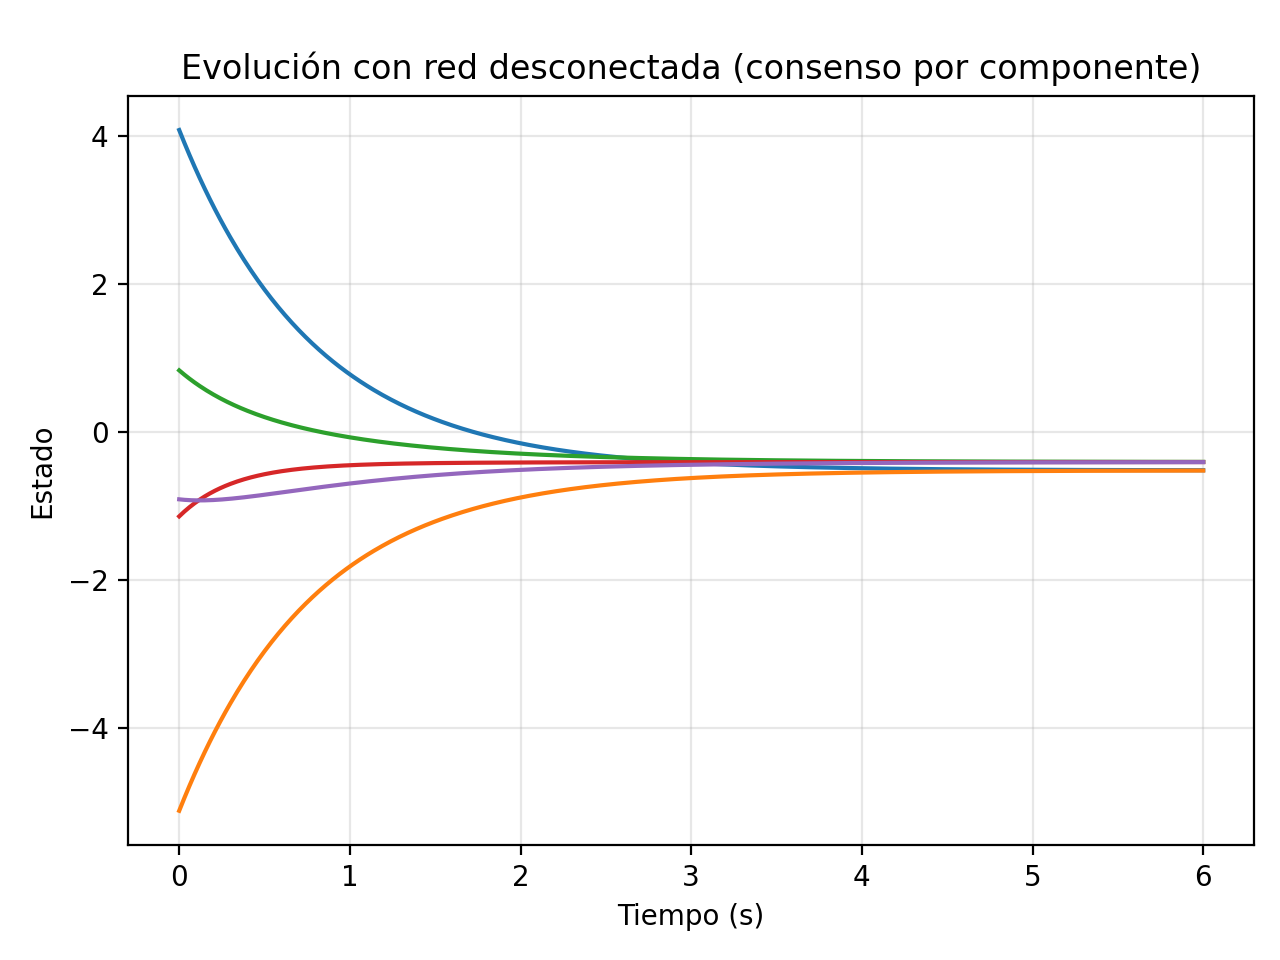
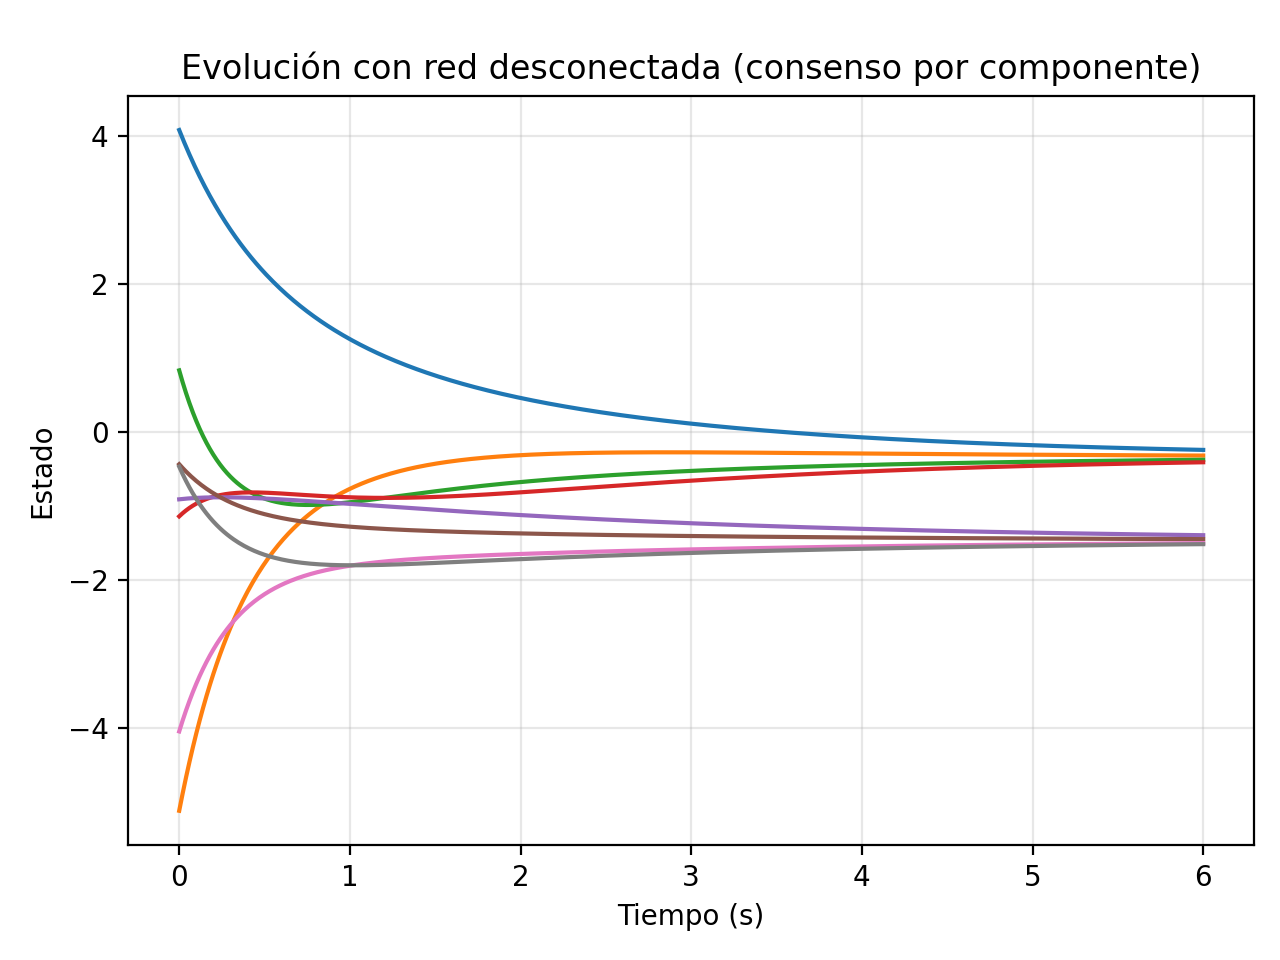
imagenes

diff --git a/consenso_mocs.py b/consenso_mocs.py
@@ -317,7 +317,7 @@ def main():
     dt = 0.01
 
     # ====== ELIGE TOPOLOGÍA ======
-    TOPOLOGY = "pentagram"  # "chain", "ring", "star", "complete", "pentagram" 
+    TOPOLOGY = "complete"  # "chain", "ring", "star", "complete", "pentagram" 
     RUN_ALL_TOPOLOGIES = False  
 
     # N recomendado por topología
